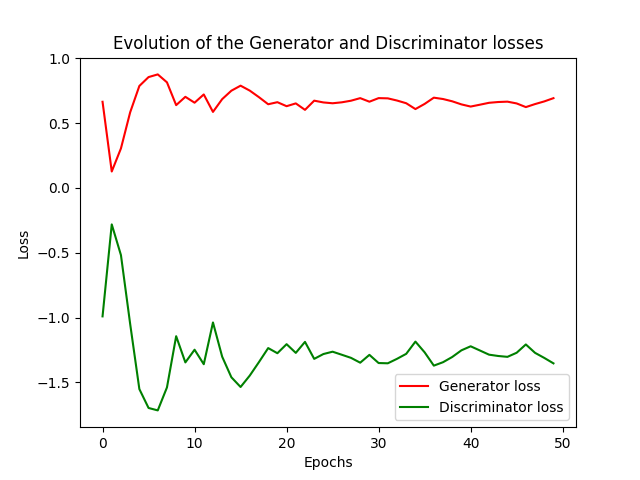
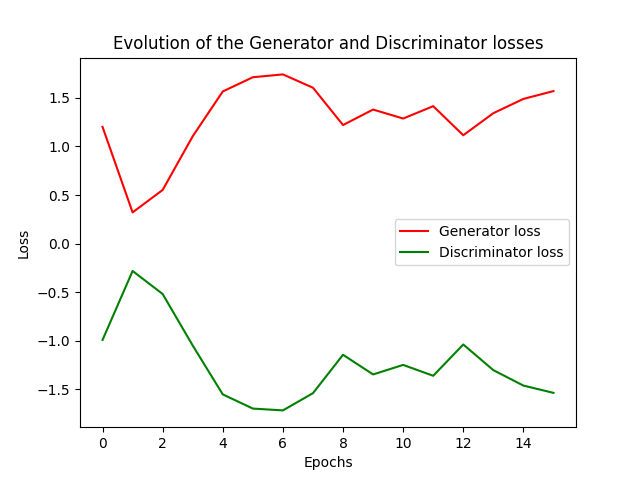
Added an option for modified loss

diff --git a/main.py b/main.py
@@ -102,10 +102,15 @@ def run_exp(argsdict):
             if i_batch %n_critic_updates==0:
                 optim_generator.zero_grad()
 
-                gen_imgs=generator(noise)
-                DG_score=critic(gen_imgs)
+                gen_img=generator(noise)
+                if argsdict['modified_loss']:
+                    DX_score = critic(real_img)
+                    DG_score = critic(gen_img)
+                    loss_G = -losses.D_loss(DX_score, DG_score)
+                else:
+                    DG_score=critic(gen_img)
+                    loss_G = losses.G_loss(DG_score)
                 # loss_G=losses.G_loss(DG_score)
-                loss_G = losses.G_loss(DG_score)
                 loss_G.backward()
                 optim_generator.step()
 
@@ -151,6 +156,7 @@ if __name__ == '__main__':
 
     #Training options
     parser.add_argument('--batch_size', type=int, default='64', help='batch size for training and testing')
+    parser.add_argument('--modified_loss', action='store_true', help='use the loss of section 3.2 instead of the original formulation')
     parser.add_argument('--hidden_crit_size', type=int, default=32)
 
     parser.add_argument('--visualize', action='store_true', help='save visualization of the datasets using t-sne')

diff --git a/Create_mural.py b/Create_mural.py
@@ -7,6 +7,7 @@ div=['total_variation', 'forward_kl', 'hellinger', 'jensen_shannon', 'pearson', 
 # div=['forward_kl', 'hellinger', 'pearson', 'reverse_kl']
 
 folder='MNIST_IMGS'
+suffixe=''
 
 mural=None
 
@@ -21,4 +22,4 @@ for dd in div:
             mural=torch.cat([mural, ff], axis=0)
 
 
-save_image(mural.view(-1, 3, 152, 152), f"MNIST_IMGS/ComparisonOfDivergence.png", nrow=10)
+save_image(mural.view(-1, 3, 152, 152), f"MNIST_IMGS/ComparisonOfDivergence{suffixe}.png", nrow=10)
